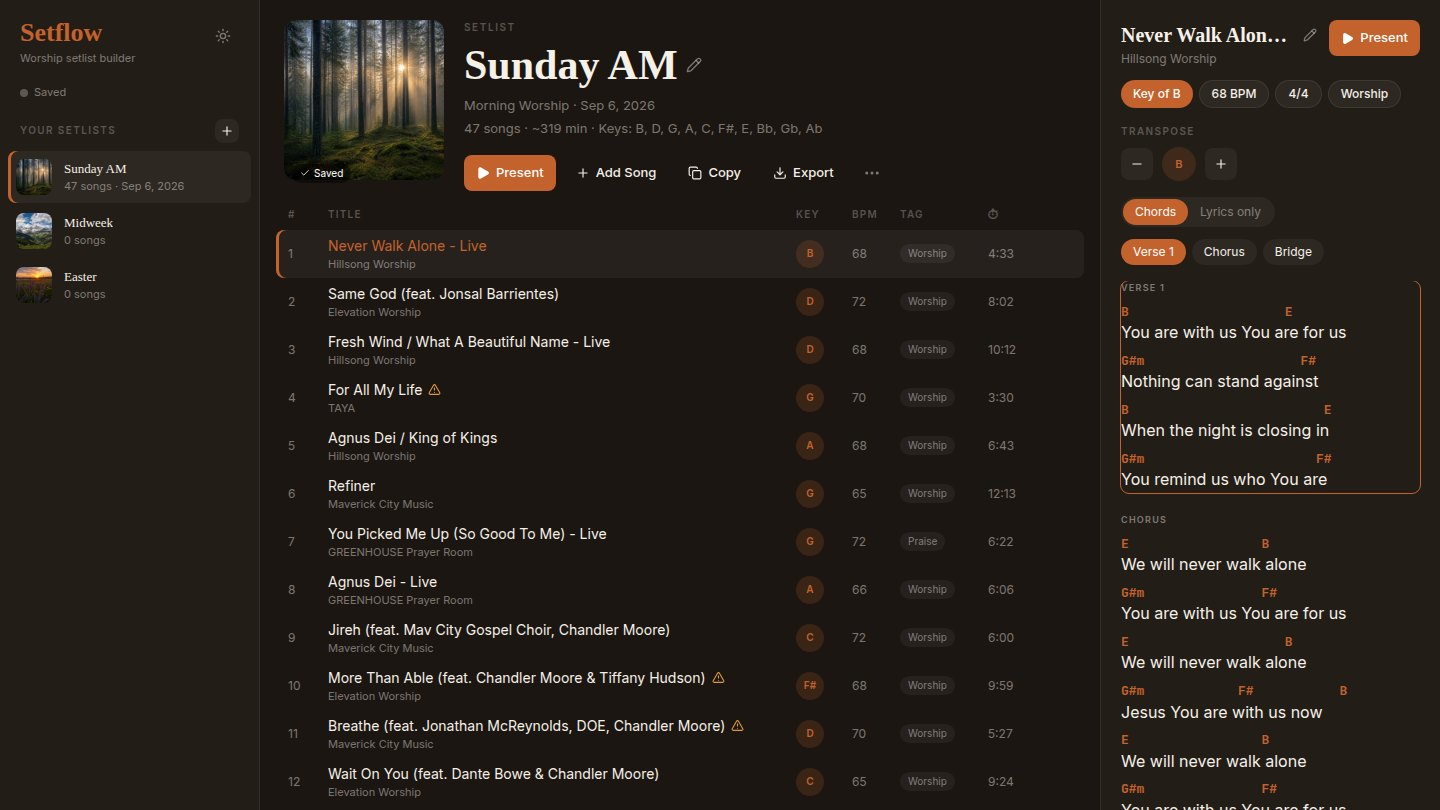
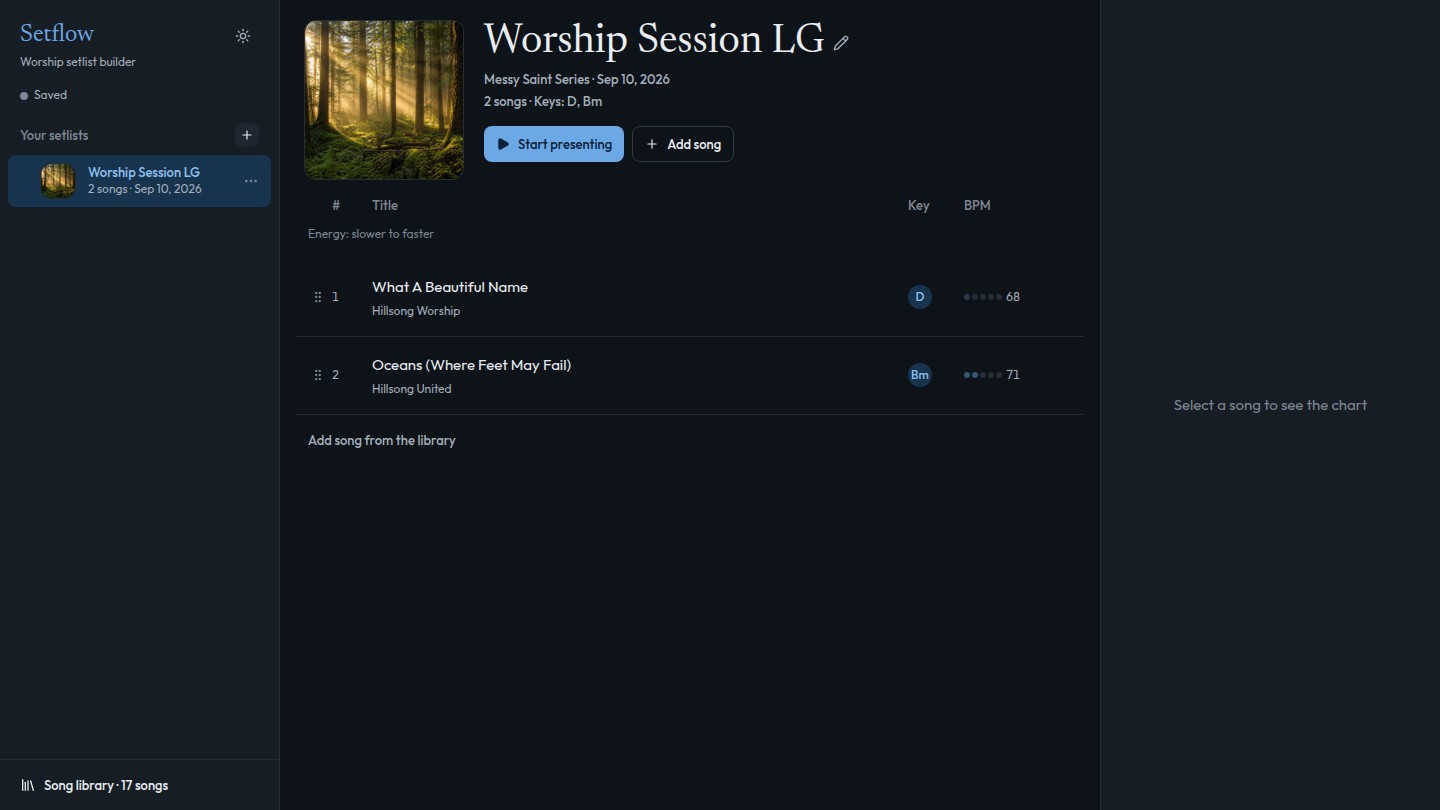
Update the Setflow Playground cover from the live app
Replace the Setflow card image with a current screenshot of uxedward-setlist.tech and point the card at that URL.

diff --git a/lib/tools.ts b/lib/tools.ts
@@ -13,7 +13,7 @@ export const aiTools: AiTool[] = [
     slug: "setflow",
     title: "Setflow",
     summary: "A worship setlist app I use for church gathering.",
-    href: "https://temporary-turbo-gorge-3va6m4d.vercel.app/",
+    href: "https://www.uxedward-setlist.tech/",
     year: "2026",
     cover: "/images/playground/worship-setlist.jpg",
   },
